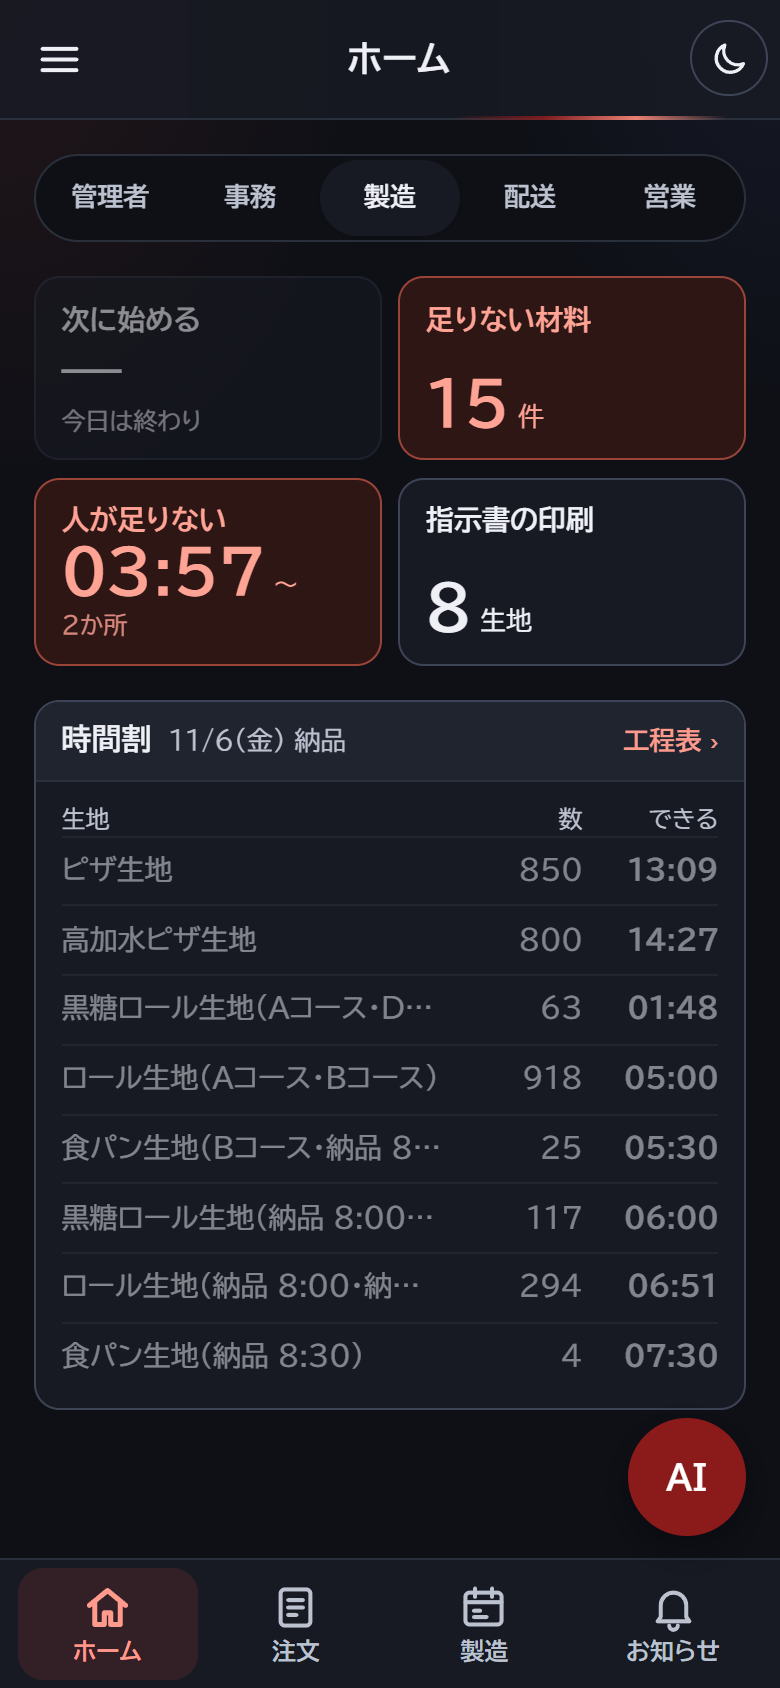
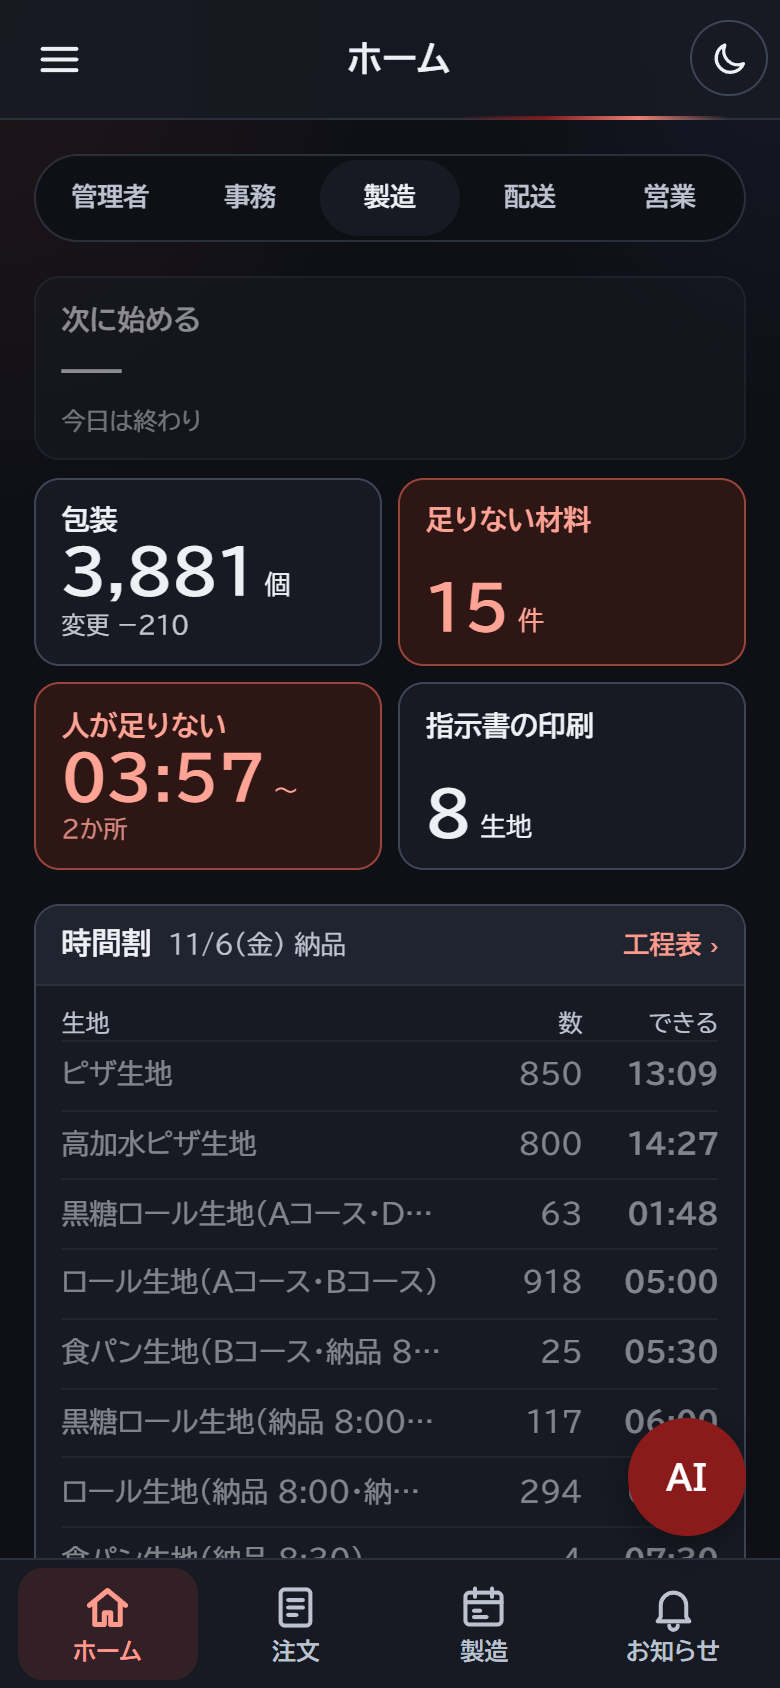
製造のホームに包装（⑧・担当者 11/7 部署ごとの人数）: 包装（パート・シフトで交代）を製造の中に入れ、製造のホームに「包装」のタイル（今日の包装の個数・変更で減った数）を足す。/packing を新しく作る（今日の包装の一覧: 商品・包装の入数・数と単位・個数・変更で減った数。注文を直して減った分と取り消した注文の分）。工場はスマホの持ち込みができないので、タブレットの横（1024×768）で撮って確かめ、時間割の字を大きく。スタッフの見本（架空の名前）を部署ごとの人数に: 事務5・製造 社員2＋ベトナムの人10・包装パート9・配送 社員4＋外注2＋パート5・営業2（team の欄を足す

diff --git a/src/app/packing/page.tsx b/src/app/packing/page.tsx
@@ -1,0 +1,54 @@
+import Link from "next/link";
+import { connection } from "next/server";
+import { todaySummary } from "@/demo/today";
+import { packingDay } from "@/lib/packing-day";
+
+export const metadata = { title: "今日の包装｜STAFFETTA" };
+
+// 今日の包装（⑧・担当者 11/7）。工場はスマホの持ち込みができないので、タブレット（横）か印刷で見る前提。
+// 大きな数字だけ: 商品・包装（入数）・袋の数・個数・変更で減った数。説明の文は出さない。
+const num = (n: number) => n.toLocaleString("ja-JP");
+const md = (d: string) => `${Number(d.slice(5, 7))}/${Number(d.slice(8, 10))}(${"日月火水木金土"[new Date(`${d}T00:00:00Z`).getUTCDay()]})`;
+
+export default async function PackingPage({ searchParams }: PageProps<"/packing">) {
+  await connection();
+  const q = (await searchParams).date;
+  const date = typeof q === "string" && /^\d{4}-\d{2}-\d{2}$/.test(q) ? q : (await todaySummary()).purchaseDate;
+  const p = await packingDay(date);
+  return (
+    <div className="space-y-3">
+      <div className="flex flex-wrap items-center gap-x-4 gap-y-2">
+        <h1 className="m-display text-[24px] font-black">包装</h1>
+        <span className="text-[16px] text-ink-soft">{md(date)} 納品</span>
+        <span className="ml-auto flex flex-wrap items-baseline gap-x-4 text-[16px] [&>span]:whitespace-nowrap">
+          <span><b className="m-display text-[30px] tabular-nums">{num(p.rows.length)}</b> 品</span>
+          <span><b className="m-display text-[30px] tabular-nums">{num(p.pieces)}</b> 個</span>
+          {p.reduced > 0 && <span className="text-alert-ink">変更で <b className="m-display text-[30px] tabular-nums">−{num(p.reduced)}</b> 個</span>}
+        </span>
+      </div>
+      {p.rows.length === 0 ? <p className="rounded-xl border border-rule bg-sheet px-4 py-4 text-[18px] text-ink-soft">包装するものはありません</p> : (
+        <table className="m-keep w-full overflow-hidden rounded-xl border border-rule-strong bg-sheet text-[20px] max-md:text-[16px]">
+          <thead>
+            <tr className="bg-cream text-left text-[14px] text-ink-soft">
+              <th className="px-4 py-2 font-normal max-md:px-2">商品</th><th className="px-3 py-2 font-normal max-md:hidden">包装</th>
+              <th className="px-3 py-2 text-right font-normal">数</th><th className="px-3 py-2 text-right font-normal max-md:hidden">個</th>
+              <th className="px-4 py-2 text-right font-normal max-md:px-2">変更</th>
+            </tr>
+          </thead>
+          <tbody>
+            {p.rows.map((r) => (
+              <tr key={`${r.productId}|${r.unit}|${r.per}`} className="border-t border-rule">
+                <td className="px-4 py-3 font-bold max-md:px-2">{r.name}{r.per > 1 && <span className="block text-[13px] font-normal text-ink-soft md:hidden">{r.per}個入</span>}</td>
+                <td className="px-3 py-3 whitespace-nowrap text-ink-soft max-md:hidden">{r.per > 1 ? `${r.per}個入` : "—"}</td>
+                <td className="px-3 py-3 text-right whitespace-nowrap"><b className="m-display text-[30px] tabular-nums max-md:text-[24px]">{num(r.quantity)}</b><span className="ml-1 text-[15px] text-ink-soft">{r.unit}</span></td>
+                <td className="px-3 py-3 text-right tabular-nums text-ink-soft max-md:hidden">{num(r.pieces)}</td>
+                <td className={`px-4 py-3 text-right whitespace-nowrap tabular-nums max-md:px-2 ${r.reduced ? "font-bold text-alert-ink" : "text-ink-faint"}`}>{r.reduced ? `−${num(r.reduced)}` : "—"}</td>
+              </tr>
+            ))}
+          </tbody>
+        </table>
+      )}
+      <Link href={`/plan?date=${date}`} className="inline-flex min-h-12 items-center rounded-xl border border-rule-strong bg-sheet px-5 text-[17px] font-bold">工程表 ›</Link>
+    </div>
+  );
+}

diff --git a/src/lib/staff.ts b/src/lib/staff.ts
@@ -16,6 +16,8 @@ export interface StaffMember {
   id: string;
   name: string;
   role: StaffRole;
+  /** 部署の中の分け（⑧ 見本: 社員・パート・外注・包装（パート）など）。無くてもよい */
+  team?: string;
   /** 担当のコース（便のマスタの id）。配送の人の「いつものコース」 */
   courses: string[];
   /** ログインのユーザー名（無ければログインしない人） */
@@ -32,7 +34,7 @@ export type PublicStaff = Omit<StaffMember, "passwordHash"> & { hasPassword: boo
 
 const KEY = "staff_members";
 
-/** 架空の初期値（見本） */
+/** 架空の初期値（見本）。部署ごとの人数は担当者 11/7: 事務 5・製造 社員2＋ベトナムの人 約10・包装 パート 約9（製造の中）・配送 社員4＋外注2＋パート 5・営業 */
 export const SAMPLE_STAFF: StaffMember[] = [
   { id: "ST01", name: "たなか", role: "事務", courses: [], active: true },
   { id: "ST02", name: "うえの", role: "事務", courses: [], active: true },
@@ -40,6 +42,16 @@ export const SAMPLE_STAFF: StaffMember[] = [
   { id: "ST04", name: "こばやし", role: "配送", courses: ["西コース"], active: true },
   { id: "ST05", name: "もりた", role: "工場", courses: [], active: true },
   { id: "ST06", name: "はやし", role: "管理者", courses: [], active: true },
+  // ⑧ 部署ごとの見本の人（架空の名前）
+  ...["かわの", "みずの", "さかい"].map((name, i) => ({ id: `SX1${i}`, name, role: "事務" as const, courses: [], active: true })),
+  { id: "SX20", name: "いしだ", role: "工場", team: "社員", courses: [], active: true },
+  ...["ホア", "ラン", "ミン", "トゥアン", "フオン", "タオ", "ズン", "ハイ", "リン", "ナム"].map((name, i) => ({ id: `SX3${i}`, name, role: "工場" as const, team: "製造", courses: [], active: true })),
+  ...["あおき", "いのうえ", "うちだ", "えんどう", "おかだ", "きむら", "くどう", "こやま", "さとう"].map((name, i) => ({ id: `SX4${i}`, name, role: "工場" as const, team: "包装（パート）", courses: [], active: true })),
+  { id: "SX50", name: "まつだ", role: "配送", team: "社員", courses: ["南コース（早朝便）"], active: true },
+  { id: "SX51", name: "やまぐち", role: "配送", team: "社員", courses: ["南コース"], active: true },
+  ...["ひがし運送（外注）", "みなみ便（外注）"].map((name, i) => ({ id: `SX6${i}`, name, role: "配送" as const, team: "外注", courses: [i ? "午後便（売店）" : "東コース（早朝便）"], active: true })),
+  ...["のむら", "はらだ", "ふじい", "ほんだ", "まえだ"].map((name, i) => ({ id: `SX7${i}`, name, role: "配送" as const, team: "パート", courses: [], active: true })),
+  ...["すずき", "よしだ"].map((name, i) => ({ id: `SX8${i}`, name, role: "営業" as const, courses: [], active: true })),
 ];
 
 const all = (): StaffMember[] => kvGet<StaffMember[]>(KEY) ?? SAMPLE_STAFF;

diff --git a/src/lib/packing-day.ts b/src/lib/packing-day.ts
@@ -1,0 +1,43 @@
+// 今日の包装（⑧・担当者 11/7「包装も製造の中に。今日の包装の一覧・変更で減った数」）。
+// その納品日の注文（確定・要確認。取消は除く）を、商品 × 包装（注文の単位と入数）でまとめる。
+// 変更で減った数: 注文の数を直して減った分（直した記録 edits）と、取り消した注文の分。
+import "server-only";
+import { allOrders } from "@/demo/all-orders";
+import { loadMasters } from "@/lib/masters/seed-db";
+
+export interface PackRow { productId: string; name: string; unit: string; per: number; quantity: number; pieces: number; customers: number; reduced: number }
+export interface PackingDay { date: string; rows: PackRow[]; quantity: number; pieces: number; reduced: number }
+
+export async function packingDay(date: string): Promise<PackingDay> {
+  const [{ orders }, masters] = await Promise.all([allOrders(), loadMasters()]);
+  const name = new Map((masters.products ?? []).map((p) => [p.id, p.name]));
+  const rows = new Map<string, PackRow & { cs: Set<string> }>();
+  const row = (pid: string, unit: string, per: number) => {
+    const k = `${pid}|${unit}|${per}`;
+    let r = rows.get(k);
+    if (!r) rows.set(k, (r = { productId: pid, name: name.get(pid) ?? pid, unit, per, quantity: 0, pieces: 0, customers: 0, reduced: 0, cs: new Set() }));
+    return r;
+  };
+  for (const o of orders.filter((x) => x.deliveryDate === date && (x.intent ?? "new") === "new")) {
+    for (const l of o.lines) {
+      if (!l.productId) continue;
+      const per = l.piecesPerUnit > 0 ? l.piecesPerUnit : 1;
+      const r = row(l.productId, l.unit || "個", per);
+      if (o.status === "cancelled") {
+        r.reduced += l.pieces || l.quantity * per;
+        continue;
+      }
+      r.quantity += l.quantity;
+      r.pieces += l.pieces || l.quantity * per;
+      r.cs.add(o.customerId);
+      for (const e of l.edits ?? []) {
+        if (e.field !== "quantity") continue;
+        const d = Number(e.from) - Number(e.to);
+        if (d > 0) r.reduced += d * per;
+      }
+    }
+  }
+  const list = [...rows.values()].filter((r) => r.quantity > 0 || r.reduced > 0).map(({ cs, ...r }) => ({ ...r, customers: cs.size }))
+    .sort((a, b) => a.name.localeCompare(b.name, "ja") || a.per - b.per);
+  return { date, rows: list, quantity: list.reduce((a, r) => a + r.quantity, 0), pieces: list.reduce((a, r) => a + r.pieces, 0), reduced: list.reduce((a, r) => a + r.reduced, 0) };
+}

diff --git a/src/lib/home-dept.ts b/src/lib/home-dept.ts
@@ -18,6 +18,7 @@ import { listNotices } from "@/lib/notices/store";
 import { listAlerts } from "@/lib/db/alerts-store";
 import { nowMs } from "@/lib/clock";
 import { liveCustomers } from "@/lib/customers-live";
+import { packingDay } from "@/lib/packing-day";
 
 export type TileTone = "quiet" | "plain" | "red";
 export interface Tile { label: string; value: string; unit?: string; note?: string; href: string; tone: TileTone }
@@ -107,10 +108,13 @@ export async function deptHome(role: Role): Promise<DeptHome> {
   if (role === "工場") {
     const from = rows.length ? Math.min(...rows.map((x) => x.start)) : 0;
     const to = rows.length ? Math.max(...rows.map((x) => x.end)) : 1440;
+    const pack = await packingDay(date);
     return {
       role, date,
       tiles: [
         { label: "次に始める", value: next ? `${dayLabel(next.start)}${hhmm(next.start)}` : "—", note: next?.name ?? "今日は終わり", href: `/plan?date=${date}`, tone: next ? "plain" : "quiet" },
+        // 包装（パートの人がシフトで見る）: 今日の包装の袋の数と、変更で減った個数
+        { label: "包装", value: num(pack.pieces), unit: "個", note: pack.reduced ? `変更 −${num(pack.reduced)}` : `${pack.rows.length}品`, href: `/packing?date=${date}`, tone: tone(pack.pieces) },
         { label: "足りない材料", value: num(r.shortages.length || summary.lowStock), unit: "件", href: summary.lowStockHref, tone: tone(r.shortages.length || summary.lowStock, true) },
         { label: "人が足りない", value: shortBands.length ? hhmm(shortBands[0].from) : "0", unit: shortBands.length ? "〜" : "件", note: shortBands.length ? `${shortBands.length}か所` : undefined, href: `/plan?date=${date}`, tone: shortBands.length ? "red" : "quiet" },
         { label: "指示書の印刷", value: num(rows.length), unit: "生地", href: `/plan?date=${date}`, tone: tone(rows.length) },

diff --git a/src/app/home/page.tsx b/src/app/home/page.tsx
@@ -42,7 +42,8 @@ export default async function HomePage({ searchParams }: PageProps<"/home">) {
         )}
       </div>
 
-      <div className="grid grid-cols-2 gap-2 md:grid-cols-4 md:gap-3" data-testid="dept-tiles">
+      {/* 5枚のとき（製造＋包装）は、スマホで先頭を横いっぱいに。タブレット（横）・パソコンは1列に5枚 */}
+      <div className={`grid grid-cols-2 gap-2 md:gap-3 ${h.tiles.length === 5 ? "md:grid-cols-5 max-md:[&>*:first-child]:col-span-2" : "md:grid-cols-4"}`} data-testid="dept-tiles">
         {h.tiles.map((t) => <TileCard key={t.label} t={t} />)}
       </div>
 
@@ -126,7 +127,7 @@ function TimeTable({ t, date }: { t: Timetable; date: string }) {
               const done = r.end <= t.now;
               const doing = r.start <= t.now && t.now < r.end;
               return (
-                <div key={i} className={`grid grid-cols-[minmax(0,1fr)_3.5rem_3.5rem] items-center gap-x-2 border-t border-rule py-1.5 text-[14px] md:grid-cols-[minmax(0,14rem)_4rem_minmax(0,1fr)_4rem] ${done ? "opacity-50" : ""}`}>
+                <div key={i} className={`grid grid-cols-[minmax(0,1fr)_3.5rem_3.5rem] items-center gap-x-2 border-t border-rule py-1.5 text-[14px] md:py-2 md:text-[16px] md:grid-cols-[minmax(0,14rem)_4rem_minmax(0,1fr)_4rem] ${done ? "opacity-50" : ""}`}>
                   <span className={`truncate ${doing ? "font-bold" : ""}`}>{r.name}</span>
                   <span className="text-right tabular-nums">{r.pieces.toLocaleString("ja-JP")}</span>
                   <span className="relative h-5 max-md:hidden">

diff --git a/src/lib/auth/roles.ts b/src/lib/auth/roles.ts
@@ -7,7 +7,7 @@ export const deptName = (r: Role) => (r === "工場" ? "製造" : r);
 export const homeOf = (role: Role) => (role === "配送" ? "/driver" : "/home");
 
 const FACTORY_PATHS = [
-  "/home", "/daily", "/plan", "/cards", "/hygiene", "/alerts",
+  "/home", "/daily", "/packing", "/plan", "/cards", "/hygiene", "/alerts",
   "/masters/materials", "/masters/packaging", "/masters/recipes", "/masters/doughs", "/masters/recipeItems",
   "/masters/steps", "/masters/equipment", "/masters/shifts", "/masters/staffAssignments", "/masters/lines", "/masters/toppings", "/masters/toppingItems",
 ];

diff --git a/src/components/ui/AppShell.tsx b/src/components/ui/AppShell.tsx
@@ -31,6 +31,7 @@ export const MENU: Group[] = [
       { href: "/orders", label: "受注一覧", match: (p) => p === "/orders" },
       { href: "/plan", label: "製造計画・工程表" },
       { href: "/cards", label: "製品カード" },
+      { href: "/packing", label: "包装" },
       { href: "/hygiene", label: "衛生管理" },
       { href: "/purchase", label: "発注書" },
       { href: "/outbound", label: "送り出し（FAX・サイト）" },
